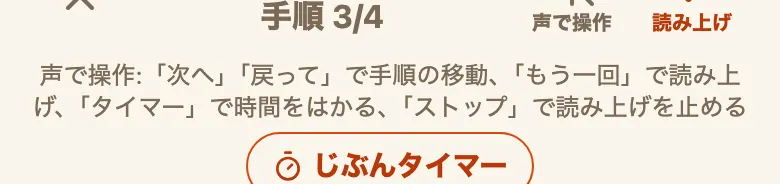
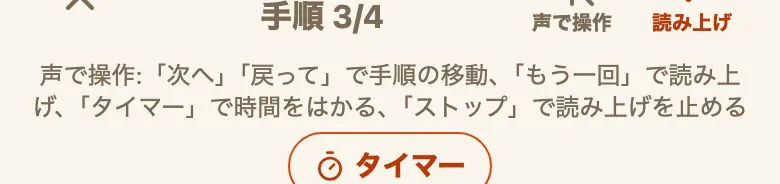
便CU: 説明書のアプリ追随(タイマー改名・レシピを探す・野菜量の定義・Pro新機能2つ)
1. 「じぶんタイマー」→「タイマー」(便CRの改名に追随)
   - §8の該当1行を改名。名前だけでは手順タイマーと紛らわしいため、
     開き方(調理中モードの「タイマー」ボタン/レシピ詳細右上のタイマーのマーク)を
     併記して何を指すか分かるようにした(規約H)。
   - スクショ cookmode-voice.webp にも旧ラベル「じぶんタイマー」が写っていたので
     撮り直し。altにも「タイマー」のボタンを書き足した。

2. ホームの「レシピを探す」ショートカットに追随
   - 部分スクショ home-search.webp を追加(shots-manual.mjsに撮影手順も追加)
   - §11の冒頭に「レシピを探す入口」を新設し、ホームからの導線と
     「在庫の食材から探す」を記述
   - §1の見取り図(ホームの中身)と§7「在庫からレシピを探す」も現行UIに合わせた
   - home-suggest.webp も同時に撮り直し(内容は従来どおり)

3. §5「めやす」の考え方に野菜量の定義を1行追記
   材料の分量をそのままグラムに換算した概算であること・可食部の重さには
   直していないこと・数に入れられない材料があるぶん少なめに出ることを明示。

4. §13に、実装済みで未記載だったPro機能2つを追記(LPの #pro 着地先として成立させる)
   - 目的から組む(便CP-2): 「週」「月」の「提案の条件」で「たんぱく質を多めに」
     「塩分をひかえめに」を選ぶと、まとめて献立を立てる/おまかせで提案/
     未定の日をまとめて提案が同じ枠を引き直して目的に沿う組み合わせを採ること、
     「月」タブの振り返りは数字を並べるだけで判定はしないことを記述。
     効能・断定の語(「バランスの良い」等)は使っていない(docs/60 §1-3・規約H)。
   - 恒常のお試し(便CP-2): 並行調理ナビ3回まで・月間の献立は本人の記録で1回だけ。
     お試しの回数が端末内の記録であることまでにとどめ、消し方は書かない。

scripts/shots-manual.mjs: ONLY環境変数で部分撮り直しができるようにした。
料理写真(.manual-photos)が無い環境で全部を撮り直すと写真つきスクショが
写真なしに置き換わってしまうため、対象を絞れる形にしてある。

検証: tsc/build/oxlint 通過。e2e 968/968(BASE_URL=4288・console/pageerror 0件)。
静的ページ4種は200＋固有title(SMK-19相当)。使い方ページの画像31枚すべて表示・
HTTP 4xx ゼロ。§13の記述は実アプリのDOM(目的の3択・鍵付き行・お試しボタン)と照合済み。

Changed region(s): [[0.3077, 0.7065, 0.6769, 1.0], [0.6769, 0.8152, 0.7077, 1.0]]

diff --git a/public/about/manual.html b/public/about/manual.html
@@ -549,7 +549,7 @@
     </figure>
 
     <ul class="feature-list">
-      <li><strong>ホーム</strong>: 「今日なに作る？」の提案、今日の献立、最近作ったもの</li>
+      <li><strong>ホーム</strong>: 「今日なに作る？」の提案、「レシピを探す」、今日の献立、最近作ったもの</li>
       <li><strong>レシピ</strong>: 登録したレシピの一覧・検索。右下の「＋」から登録</li>
       <li><strong>献立</strong>: 「日」「週」「月」の献立づくり（今日の献立が2品以上のときは、「日」に並行調理ナビの入口も出ます）</li>
       <li><strong>食材</strong>: 「食材の在庫」と「買い物メモ」</li>
@@ -803,6 +803,7 @@
     <h3>「めやす」の考え方</h3>
     <ul class="feature-list">
       <li>数値は材料と分量から自動計算した<strong>めやす</strong>です。調理による変化は反映していないため、実際の栄養価とは異なります。同じ食材でも品種・大きさ・部位で成分は変わります</li>
+      <li><strong>野菜量</strong>は、材料に書かれた分量をそのままグラムに換算して合計した<strong>概算</strong>です（皮や種を除いた可食部の重さには直していません）。数に入れられない材料があるぶん、実際より少なめに出ることがあります</li>
       <li>献立の栄養パネルでは、野菜量について公的な基準の数値を<strong>並べて</strong>表示します（「野菜 ◯g ／ めやす 350g」。Pro版では塩分にも同じ形のめやすが付きます）。<strong>数字を並べるだけ</strong>で、足りない・摂りすぎといった判定はしません。色で良し悪しを示すこともしません</li>
       <li>献立の合計に出るのは<strong>献立に登録した料理ぶんだけ</strong>です。ごはん・飲みもの・おやつ・外食は入っていません。3食のうち夕食だけを登録している場合は、その1食ぶんの合計を1日のめやすと並べていることになります</li>
     </ul>
@@ -894,7 +895,7 @@
     <p class="muted">最初はOFFで、切り替えると次からも覚えています。</p>
 
     <h3>在庫からレシピを探す</h3>
-    <p>在庫を入れておくと、ホームの「在庫の食材から」、レシピ一覧の絞り込み「在庫の食材で絞る」、並べ替えの「在庫との一致が多いレシピ順」が使えます。</p>
+    <p>在庫を入れておくと、ホームの「今日なに作る？」にある「在庫の食材から」、ホームの「在庫の食材から探す」、レシピ一覧の絞り込み「在庫の食材で絞る」、並べ替えの「在庫との一致が多いレシピ順」が使えます。</p>
   </section>
 
   <section class="sec" id="cookmode">
@@ -920,7 +921,7 @@
     <p>右上の「声で操作」を押すと、次の言葉で操作できます。</p>
 
     <figure class="shot" style="--w:390px">
-      <img src="/about/img/manual/cookmode-voice.webp" width="780" height="184" loading="lazy" decoding="async" alt="調理中モードの上部。「手順 3/4」の右に「声で操作」「読み上げ」のボタンが並び、その下に使える言葉の案内が出ている">
+      <img src="/about/img/manual/cookmode-voice.webp" width="780" height="184" loading="lazy" decoding="async" alt="調理中モードの上部。「手順 3/4」の右に「声で操作」「読み上げ」のボタンが並び、その下に使える言葉の案内と「タイマー」のボタンが出ている">
       <figcaption>調理中モードの上部。「声で操作」と「読み上げ」はここにあります</figcaption>
     </figure>
 
@@ -948,7 +949,7 @@
     <ul class="feature-list">
       <li><strong>複数同時に動かせます。</strong>煮込みながら別の鍋をゆでる、といった使い方ができます。動いているタイマーは画面上の常駐バーに並びます</li>
       <li>動作中の表示をタップすると「タイマーを調整」の窓が開き、「+1分」「−30秒」「停止」ができます（常駐バーには「+1分」のミニボタンもあります）</li>
-      <li>レシピの手順とは関係なく好きな時間ではかりたいときは「じぶんタイマー」（ゆで時間・つけおきなど）。分数を決めてから「−10秒」「+10秒」「+30秒」で細かく合わせ、「開始」を押します</li>
+      <li>レシピの手順とは関係なく好きな時間ではかりたいとき（ゆで時間・つけおきなど）は、調理中モードの<strong>「タイマー」</strong>ボタン、またはレシピ詳細の右上にあるタイマーのマークから開きます。分数を決めてから「−10秒」「+10秒」「+30秒」で細かく合わせ、「開始」を押します</li>
       <li><strong>残り時間はアプリを閉じても続きます。</strong>ただし音と通知が鳴るのは、アプリを開いている間だけです（アプリの仕組み上の制限です）</li>
       <li>設定の「タイマー音」をOFFにしても、振動に対応した端末では振動でお知らせします。1本ずつの消音は常駐バーの🔔で切り替えられます</li>
     </ul>
@@ -1007,6 +1008,16 @@
 
   <section class="sec" id="search">
     <h2><span class="sec__num">11</span>検索・お気に入り・共有</h2>
+
+    <h3>レシピを探す入口</h3>
+    <p>レシピを探す場所は「レシピ」タブの検索欄です。ホームの<strong>「レシピを探す」</strong>を押すと、「レシピ」タブへ移って検索欄がすぐ打てる状態になります。</p>
+
+    <figure class="shot" style="--w:370px">
+      <img src="/about/img/manual/home-search.webp" width="740" height="408" loading="lazy" decoding="async" alt="ホームの「レシピを探す」のパーツ。「レシピタブで、料理名・材料・タグ・使いたい食材から探せます」の説明の下に、「レシピを探す」と「在庫の食材から探す」の2つのボタンが縦に並んでいる">
+      <figcaption>ホームの「レシピを探す」。押すと「レシピ」タブの検索欄が開きます</figcaption>
+    </figure>
+
+    <p class="muted">食材の在庫を1つ以上登録していると「在庫の食材から探す」も出ます。押すと、絞り込みの「在庫の食材で絞る」を入れた状態でレシピ一覧が開きます。</p>
 
     <h3>かなで書いても見つかります</h3>
     <p>「レシピ」タブ上部の検索欄（「料理名・材料・タグで検索」）は、表記のゆれを吸収します。</p>
@@ -1130,8 +1141,23 @@
       <li><strong>栄養価の8項目表示</strong>（たんぱく質・脂質・炭水化物・食物繊維・鉄・カルシウムまで）と、「栄養価で探す」の並べ替え</li>
       <li><strong>月間の献立</strong>（カレンダー表示・未定の日をまとめて提案・期間の栄養と食費・1か月分の献立表の印刷・画像保存）</li>
       <li><strong>並行調理ナビ</strong></li>
+      <li><strong>目的から組む</strong>（「たんぱく質を多めに」「塩分をひかえめに」を指定して献立を提案・「月」タブでの振り返り）</li>
     </ul>
     <p>Pro版の機能は、画面から隠すのではなく<strong>鍵のマークつきの案内</strong>で、その機能がある場所ごとにお知らせしています。何が増えるのかを見てから決めていただけます。</p>
+
+    <h3>目的から組む<span class="pro-tag">Pro版</span></h3>
+    <p>献立の「週」「月」タブにある<strong>「提案の条件」</strong>を開くと、<strong>「目的」</strong>を選べます。「指定なし」「たんぱく質を多めに」「塩分をひかえめに」の3つからお選びいただけます。</p>
+    <p>目的を指定すると、「まとめて献立を立てる」「おまかせで提案」「未定の日をまとめて提案」が、<strong>同じ枠を数回引き直して、その目的に沿う組み合わせを採ります</strong>。ふだんの提案の決まりごと（同じ日はジャンルをそろえる・同じ料理を続けない）はそのままです。</p>
+    <p>「月」タブには<strong>「この月の『目的から組む』」</strong>が出ます。目的を指定して組んだ日が何日あったかと、1日あたりの数値を「目的から組んだ日」と「ほかの日」で並べて出します。<strong>数字を並べるだけ</strong>で、足りている・足りていないの判定はしません。数値はいずれもめやすです。</p>
+    <p class="muted">目的を指定していないときの提案は、これまでとまったく同じです。未解錠のときは「提案の条件」のそばに鍵のマークつきの「目的から組む（Pro）」が出ます。</p>
+
+    <h3>買う前にお試しいただけます</h3>
+    <p>買い切り版の機能のうち2つは、解錠しなくても実際に使ってお確かめいただけます。期限はありません。</p>
+    <ul class="feature-list">
+      <li><strong>並行調理ナビ</strong>: <strong>3回まで</strong>お使いいただけます。お試しの間も、Pro版と同じものがそのまま動きます</li>
+      <li><strong>月間の献立</strong>: <strong>1回だけ</strong>、「月」タブをそのまま開けます。見本ではなく、ご自分の記録と献立が入った状態でご覧いただけます</li>
+    </ul>
+    <p class="muted">お試しの回数は端末の中に記録しています（機種ごとに数えます）。</p>
     <p>お手元に解錠コードがあるときは、設定の「Pro」→「購入と解錠」にコード（<code>UR-</code>から始まる英数字）を入れて「解錠する」を押すと、その場で使えるようになります。手順は<a href="/about/unlock.html">解錠コードの使い方</a>にも載せています。</p>
     <p class="note">
       <strong>買い切り版は販売準備中です</strong>
